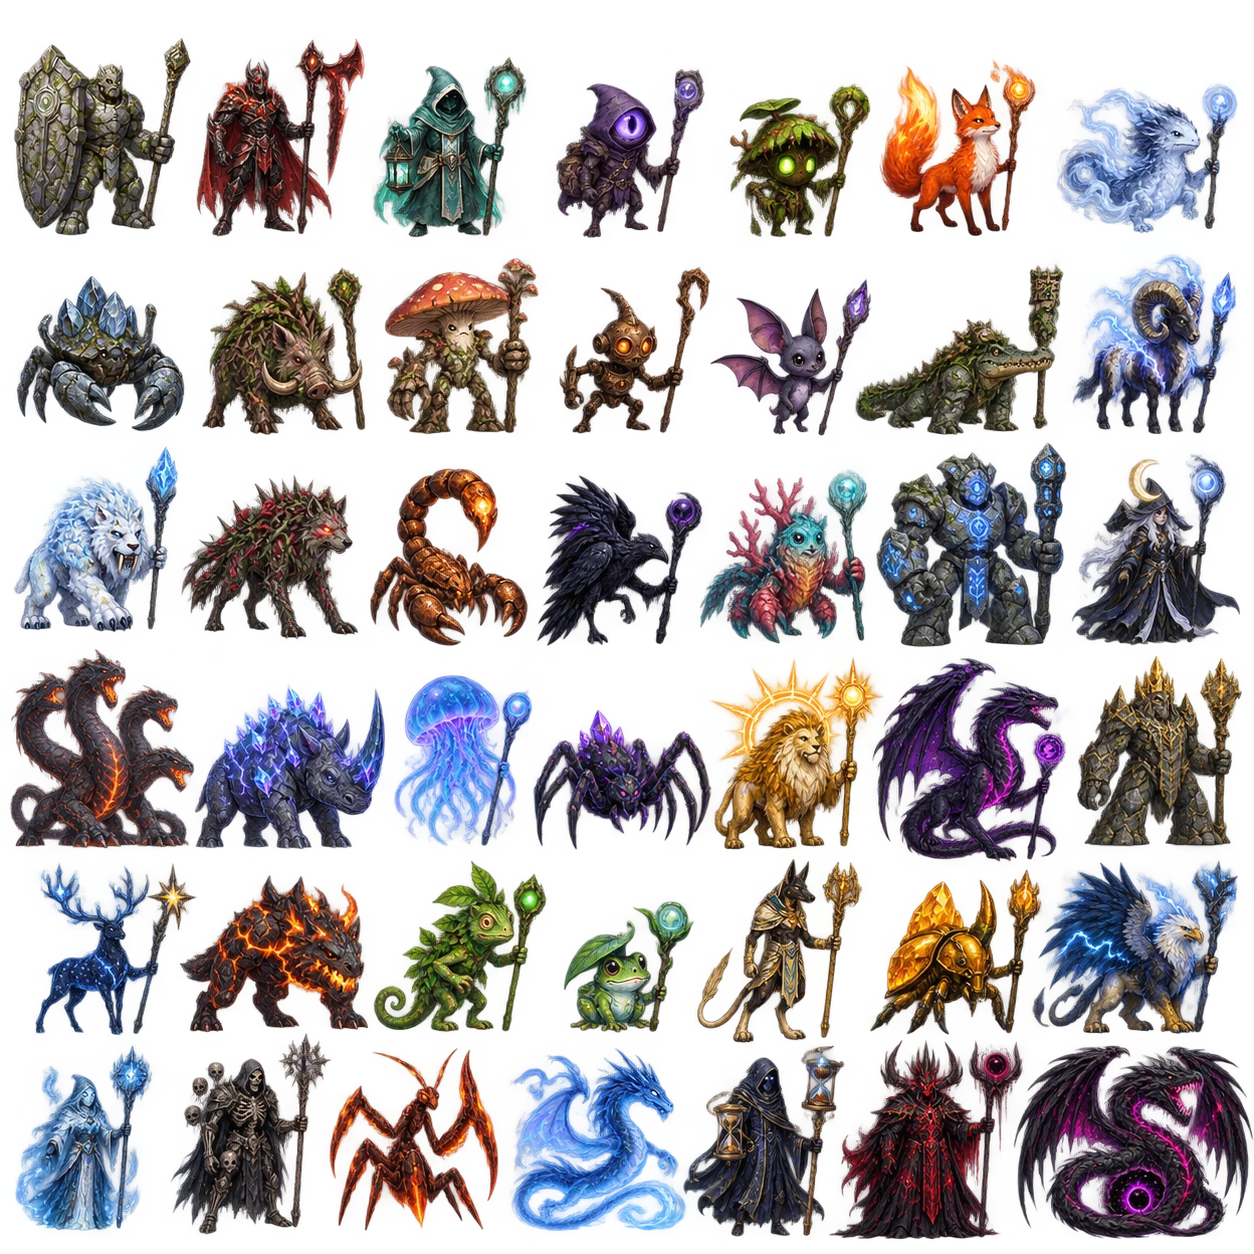
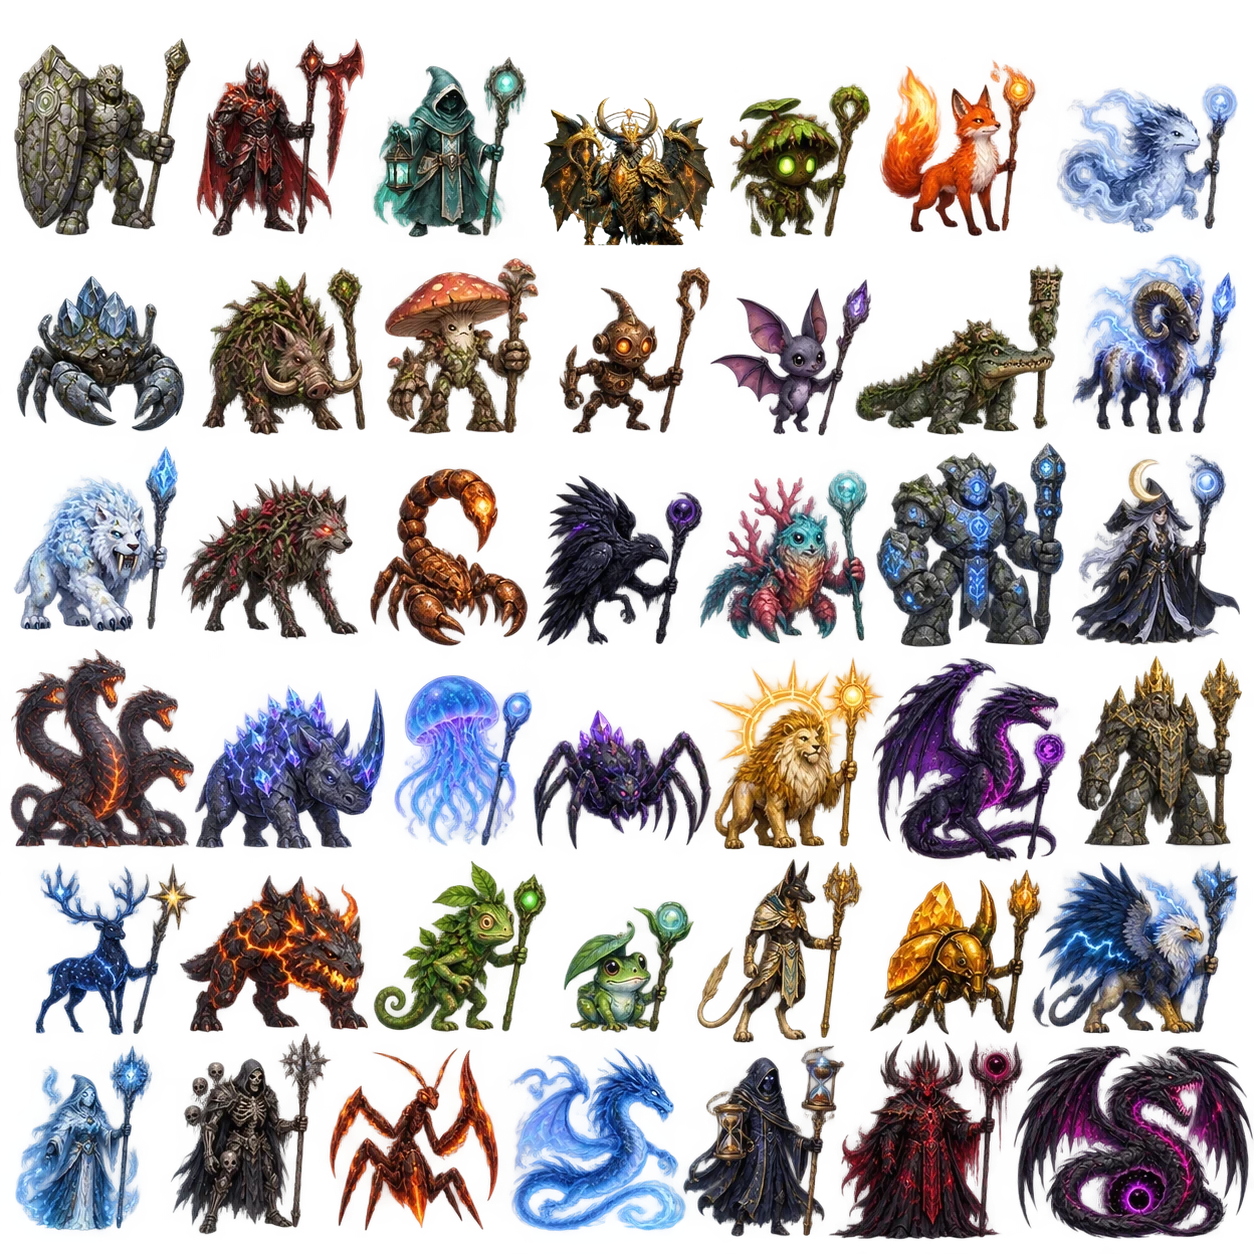
Der Späher läuft als goldene Eule über die Insel
Porträt und Quellbild zeigten die neue Gestalt schon, die Figur auf der
Karte kommt aber aus dem Sprite-Atlas - dort stand noch die alte
Kapuzengestalt. Die Zelle (x 540, y 0, 175x246) trägt jetzt das
freigestellte Bild, unten bündig wie alle Figuren.

Die Eule ist breiter als hoch und füllt die hochkantige Zelle nur zu gut
sechzig Prozent; worldSize steigt deshalb von 2.7 auf 4.4, damit sie
dieselbe Höhe behält wie vorher.

Claude-Session: https://claude.ai/code/session_01FdvjBwLvH7hLNsvWsMxgag

Changed region(s): [[0.4354, 0.0311, 0.5909, 0.2177]]

diff --git a/src/games/gehstockmon/1-sammlung.js b/src/games/gehstockmon/1-sammlung.js
@@ -52,7 +52,11 @@
   D.SELTENHEITEN.splice(2,0,{name:'Außergewöhnlich',farbe:'#69dcad',rang:3,text:'Erwachte Naturkraft · seltene Mutationen'});
   D.SELTENHEITEN.forEach(function(r,i){r.rang=i+1;});
   D.KATALOG.forEach(function(k){if(k.seltenheit>=2)k.seltenheit++;if(['donnerwidder','frostklaue','dornenwolf','obsidianrabe','korallenwacht','duenenschakal','bernsteinkaefer'].indexOf(k.id)>=0)k.seltenheit=2;});
-  D.MON_SIZES=[3.8,3.2,3.4,2.7,1.25,1.55,1.2,1.25,2.1,1.7,1.2,1.2,3.4,3.1,2.8,2.6,1.6,1.5,3.2,4.6,3.6,5,4.6,2.4,2.1,4.6,5.5,5.8,4.3,5.5,1.2,1,2.6,1.7,4.5,3.5,3.9,3.8,5.8,4.2,6.8,7.5];
+  /* Der Spaeher ist breiter als hoch und fuellt seine hochkantige Atlaszelle
+     nur zu gut sechzig Prozent. Ohne den groesseren Wert liefe er als
+     Zwerg ueber die Insel; 4.4 bringt ihn auf dieselbe Hoehe wie vorher und
+     laesst die Fluegel zu ihrer Breite kommen. */
+  D.MON_SIZES=[3.8,3.2,3.4,4.4,1.25,1.55,1.2,1.25,2.1,1.7,1.2,1.2,3.4,3.1,2.8,2.6,1.6,1.5,3.2,4.6,3.6,5,4.6,2.4,2.1,4.6,5.5,5.8,4.3,5.5,1.2,1,2.6,1.7,4.5,3.5,3.9,3.8,5.8,4.2,6.8,7.5];
   D.KATALOG.forEach(function(k,i){k.spriteIndex=i;k.worldSize=D.MON_SIZES[i];});
   D.mon = function (id) { return D.KATALOG.find(function (k) { return k.id === id; }) || null; };
   D.STARTER = ['moosling','glutfuchs','nebelmolch','rostknirps'];
